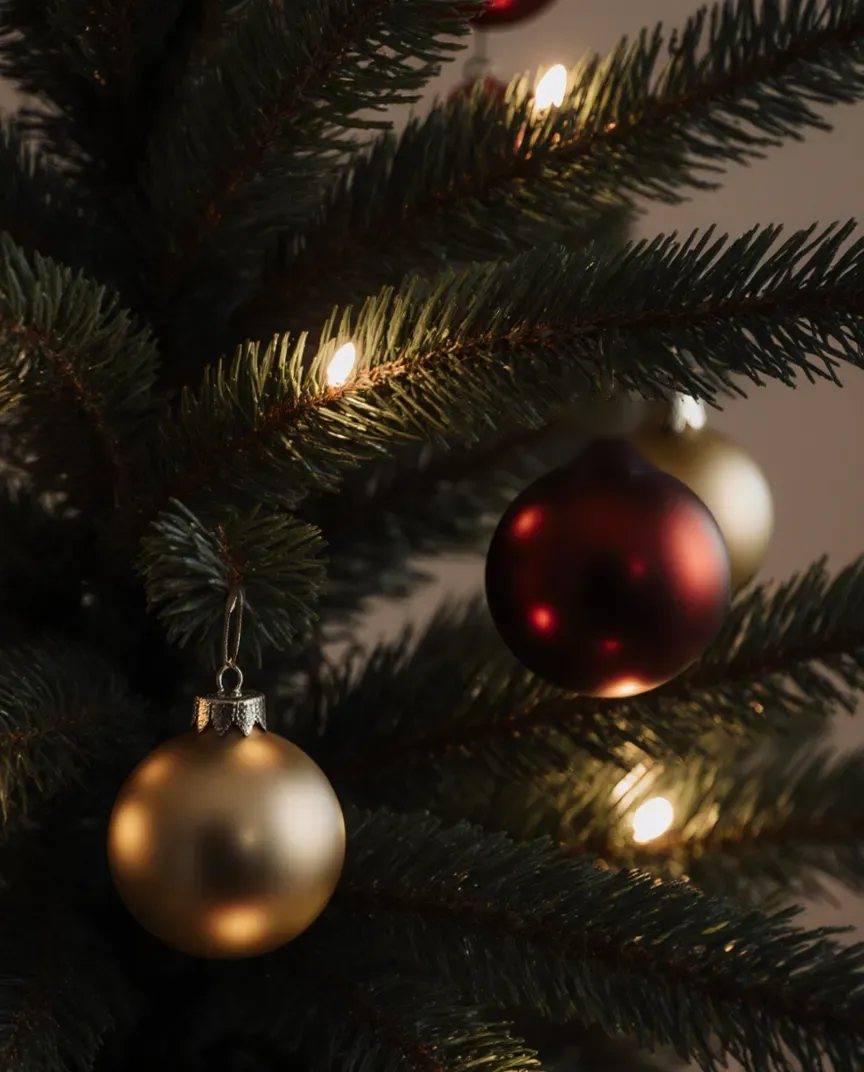
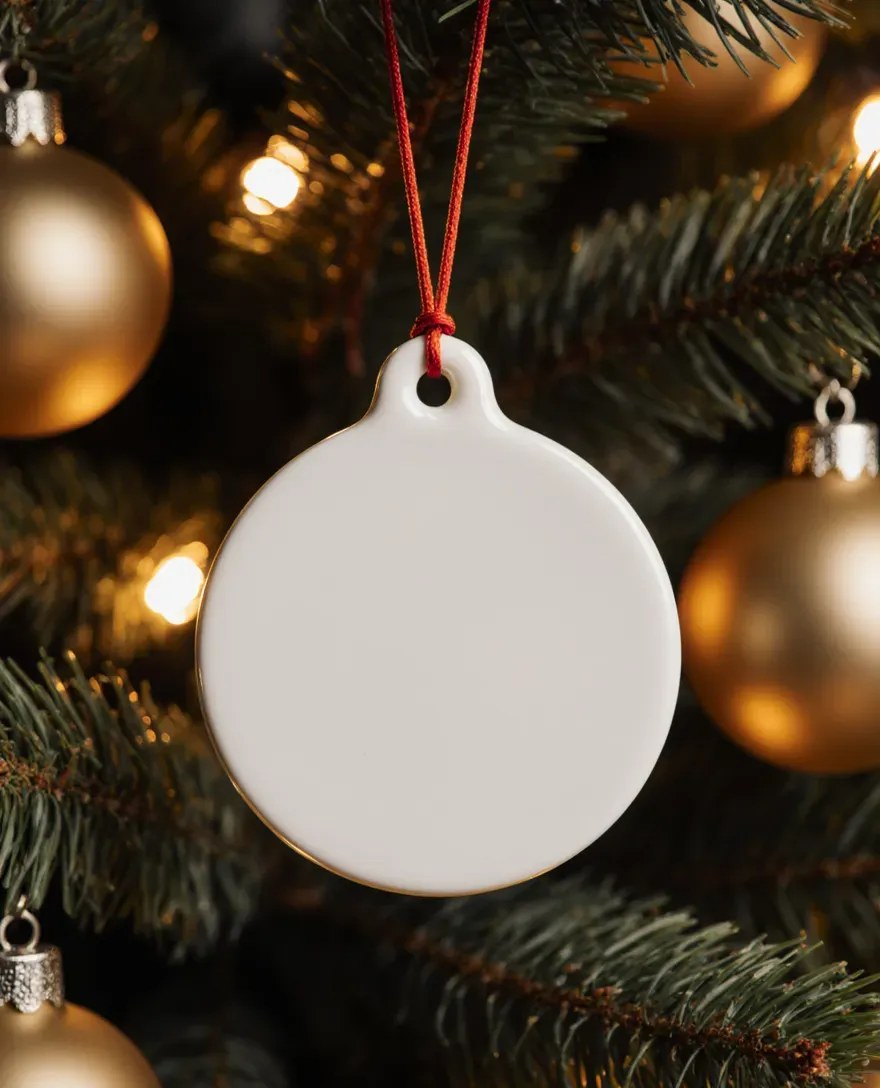
Bauble tree view: real-photo look - customer design multiplied onto a blank ceramic bauble photo
Claude-Session: https://claude.ai/code/session_012o9aG8XCDY6YZ4R9V2L3QY

diff --git a/docs/bauble-designer/index.html b/docs/bauble-designer/index.html
@@ -839,46 +839,16 @@ function renderControls() {
 }
 
 /* ---------- Christmas tree scene ---------- */
-const TREE_LOOK = {};  // the chosen look (Alex picks from 10 examples, 5 Nov)
-function treeScene(baubleSvg, o) {   // realistic tree photo, bauble life-size (7.5 cm), lit like the photo, kept SHARP
-  // Photo: AI-made for ZANS (FLUX.1 Krea), /img/bauble-tree-scene.jpg 864x1072 (the photo's own ball + cap removed under our bauble).
-  o = Object.assign({ gain: [.98, .95, .88], sat: 1, shade: .45, warm: .7, spec: .9, rot: -3, sx: .95, streak: 0, rim: .3, edge: 11, matte: 0 }, TREE_LOOK, o || {});   // Alex 5 Nov reference photos: bright true colours, thick cream edge, red cord
-  const cx = 608, cy = 570, r = 134, top = cy - r;
+function treeScene(baubleSvg) {   // Alex 5 Nov: must look like a real photo
+  // Photo: AI-made for ZANS (FLUX.1 Krea) of a BLANK white ceramic disc bauble on a tree, /img/bauble-tree-scene.jpg 880x1088.
+  // The customer's design is laid on the blank face with "multiply", so the photo's own light, shine and shadow show through it.
+  const cx = 439, cy = 652, r = 236;
   const inner = baubleSvg.replace(/^<svg[^>]*>/, '').replace(/<\/svg>$/, '').replace(/id="([^"]+)"/g, 'id="tr$1"').replace(/url\(#([^)]+)\)/g, 'url(#tr$1)');
-  const tilt = `translate(${cx},${cy}) rotate(${o.rot}) scale(${o.sx},1) translate(${-cx},${-cy})`;
-  const [gr, gg, gb] = o.gain;
-  return `<svg viewBox="230 214 634 792" xmlns="http://www.w3.org/2000/svg" xmlns:xlink="http://www.w3.org/1999/xlink" role="img" aria-label="Your bauble hanging on a real Christmas tree, shown life-size next to other decorations">
-  <defs>
-    <filter id="photo" color-interpolation-filters="sRGB"><feColorMatrix type="saturate" values="${o.sat}"/><feComponentTransfer><feFuncR type="linear" slope="${gr}"/><feFuncG type="linear" slope="${gg}"/><feFuncB type="linear" slope="${gb}"/></feComponentTransfer></filter>
-    <radialGradient id="shade" cx="30%" cy="22%" r="95%"><stop offset="0" stop-color="#FFF4DE" stop-opacity="0"/><stop offset=".5" stop-color="#2A1A0C" stop-opacity="${f1(.12 * o.shade * 100) / 100}"/><stop offset=".85" stop-color="#140C05" stop-opacity="${f1(.42 * o.shade * 100) / 100}"/><stop offset="1" stop-color="#0A0603" stop-opacity="${f1(.6 * o.shade * 100) / 100}"/></radialGradient>
-    <radialGradient id="warm" cx="28%" cy="20%" r="60%"><stop offset="0" stop-color="#FFD9A0" stop-opacity="${f1(.28 * o.warm * 100) / 100}"/><stop offset="1" stop-color="#FFD9A0" stop-opacity="0"/></radialGradient>
-    <radialGradient id="spec"><stop offset="0" stop-color="#FFF6E2" stop-opacity=".95"/><stop offset=".35" stop-color="#FFE7BC" stop-opacity=".55"/><stop offset="1" stop-color="#FFE7BC" stop-opacity="0"/></radialGradient>
-    <linearGradient id="streak" x1="0" y1="0" x2="1" y2="1"><stop offset=".28" stop-color="#fff" stop-opacity="0"/><stop offset=".38" stop-color="#fff" stop-opacity="${o.streak}"/><stop offset=".46" stop-color="#fff" stop-opacity="0"/></linearGradient>
-    <linearGradient id="rib" x1="0" x2="1"><stop offset="0" stop-color="#6E0B12"/><stop offset=".5" stop-color="#B21E27"/><stop offset="1" stop-color="#6E0B12"/></linearGradient>
-    <linearGradient id="edge" x1="0" x2="1"><stop offset="0" stop-color="#B9AF9C"/><stop offset=".55" stop-color="#F1EADB"/><stop offset=".85" stop-color="#E2D8C4"/><stop offset="1" stop-color="#9C927F"/></linearGradient>
-    <filter id="shadow" x="-40%" y="-40%" width="180%" height="180%"><feGaussianBlur stdDeviation="16"/></filter>
-    <clipPath id="disc"><circle cx="${cx}" cy="${cy}" r="${r}"/></clipPath>
-  </defs>
-  <image href="/img/bauble-tree-scene.jpg" x="0" y="0" width="864" height="1072" preserveAspectRatio="xMidYMid slice"/>
-  <g class="swing" style="transform-origin:605px 300px">
-    <path d="M600,300 C595,360 598,${top - 10} 603,${top + 16} M611,300 C616,360 613,${top - 10} 607,${top + 16}" fill="none" stroke="url(#rib)" stroke-width="5" stroke-linecap="round"/><path d="M600,300 q5,-9 11,0" fill="none" stroke="#8E1219" stroke-width="5" stroke-linecap="round"/><path d="M601,310 q4,4 9,0" fill="none" stroke="#C02A33" stroke-width="2.5" stroke-linecap="round" opacity=".8"/>
-    <ellipse cx="${cx + 26}" cy="${cy + 30}" rx="${r * 0.95}" ry="${r}" fill="#000" opacity=".5" filter="url(#shadow)"/>
-    <g transform="${tilt}">
-      ${o.edge ? `<circle cx="${cx + o.edge}" cy="${cy + 2}" r="${r}" fill="url(#edge)"/>` : ''}
-      <g clip-path="url(#disc)">
-        <g filter="url(#photo)"><g transform="translate(${cx - r},${cy - r}) scale(${f1(2 * r / 990 * 1000) / 1000})">${inner}</g></g>
-        <circle cx="${cx}" cy="${cy}" r="${r}" fill="url(#shade)"/>
-        <circle cx="${cx}" cy="${cy}" r="${r}" fill="url(#warm)"/>
-        ${o.matte ? '' : `<ellipse cx="${cx - 62}" cy="${cy - 78}" rx="16" ry="11" fill="url(#spec)" opacity="${o.spec}" transform="rotate(-30 ${cx - 62} ${cy - 78})"/>
-        <ellipse cx="${cx + 58}" cy="${cy - 92}" rx="7" ry="5" fill="url(#spec)" opacity="${f1(.7 * o.spec * 100) / 100}"/>
-        <ellipse cx="${cx - 96}" cy="${cy - 20}" rx="5" ry="9" fill="url(#spec)" opacity="${f1(.45 * o.spec * 100) / 100}"/>`}
-        ${o.streak ? `<rect x="${cx - r}" y="${cy - r}" width="${2 * r}" height="${2 * r}" fill="url(#streak)"/>` : ''}
-      </g>
-      <circle cx="${cx}" cy="${cy}" r="${r - 1.5}" fill="none" stroke="#F3ECDD" stroke-width="3.5"/><circle cx="${cx}" cy="${cy}" r="${r - 0.6}" fill="none" stroke="#FFE9C4" stroke-opacity="${o.rim}" stroke-width="1.4"/>
-      <circle cx="${cx}" cy="${top + 16}" r="7" fill="#1E1912" stroke="#F1EADB" stroke-width="2.5"/>
-    </g>
-    <path d="M600,${top + 12} q5,-9 10,0" fill="none" stroke="#9E1A22" stroke-width="5" stroke-linecap="round"/><circle cx="605" cy="${top + 3}" r="4.5" fill="#8E1219"/>
-  </g></svg>`;
+  return `<svg viewBox="0 0 880 1088" xmlns="http://www.w3.org/2000/svg" xmlns:xlink="http://www.w3.org/1999/xlink" role="img" aria-label="Your bauble hanging on a Christmas tree">
+  <defs><clipPath id="face"><circle cx="${cx}" cy="${cy}" r="${r}"/></clipPath></defs>
+  <image href="/img/bauble-tree-scene.jpg" x="0" y="0" width="880" height="1088"/>
+  <g clip-path="url(#face)" style="mix-blend-mode:multiply"><g transform="translate(${cx - r},${cy - r}) scale(${Math.round(2 * r / 990 * 10000) / 10000})">${inner}</g></g>
+  </svg>`;
 }
 
 /* ---------- render ---------- */

diff --git a/tools/bauble-designer/bauble.js b/tools/bauble-designer/bauble.js
@@ -95,46 +95,16 @@ function renderControls() {
 }
 
 /* ---------- Christmas tree scene ---------- */
-const TREE_LOOK = {};  // the chosen look (Alex picks from 10 examples, 5 Nov)
-function treeScene(baubleSvg, o) {   // realistic tree photo, bauble life-size (7.5 cm), lit like the photo, kept SHARP
-  // Photo: AI-made for ZANS (FLUX.1 Krea), /img/bauble-tree-scene.jpg 864x1072 (the photo's own ball + cap removed under our bauble).
-  o = Object.assign({ gain: [.98, .95, .88], sat: 1, shade: .45, warm: .7, spec: .9, rot: -3, sx: .95, streak: 0, rim: .3, edge: 11, matte: 0 }, TREE_LOOK, o || {});   // Alex 5 Nov reference photos: bright true colours, thick cream edge, red cord
-  const cx = 608, cy = 570, r = 134, top = cy - r;
+function treeScene(baubleSvg) {   // Alex 5 Nov: must look like a real photo
+  // Photo: AI-made for ZANS (FLUX.1 Krea) of a BLANK white ceramic disc bauble on a tree, /img/bauble-tree-scene.jpg 880x1088.
+  // The customer's design is laid on the blank face with "multiply", so the photo's own light, shine and shadow show through it.
+  const cx = 439, cy = 652, r = 236;
   const inner = baubleSvg.replace(/^<svg[^>]*>/, '').replace(/<\/svg>$/, '').replace(/id="([^"]+)"/g, 'id="tr$1"').replace(/url\(#([^)]+)\)/g, 'url(#tr$1)');
-  const tilt = `translate(${cx},${cy}) rotate(${o.rot}) scale(${o.sx},1) translate(${-cx},${-cy})`;
-  const [gr, gg, gb] = o.gain;
-  return `<svg viewBox="230 214 634 792" xmlns="http://www.w3.org/2000/svg" xmlns:xlink="http://www.w3.org/1999/xlink" role="img" aria-label="Your bauble hanging on a real Christmas tree, shown life-size next to other decorations">
-  <defs>
-    <filter id="photo" color-interpolation-filters="sRGB"><feColorMatrix type="saturate" values="${o.sat}"/><feComponentTransfer><feFuncR type="linear" slope="${gr}"/><feFuncG type="linear" slope="${gg}"/><feFuncB type="linear" slope="${gb}"/></feComponentTransfer></filter>
-    <radialGradient id="shade" cx="30%" cy="22%" r="95%"><stop offset="0" stop-color="#FFF4DE" stop-opacity="0"/><stop offset=".5" stop-color="#2A1A0C" stop-opacity="${f1(.12 * o.shade * 100) / 100}"/><stop offset=".85" stop-color="#140C05" stop-opacity="${f1(.42 * o.shade * 100) / 100}"/><stop offset="1" stop-color="#0A0603" stop-opacity="${f1(.6 * o.shade * 100) / 100}"/></radialGradient>
-    <radialGradient id="warm" cx="28%" cy="20%" r="60%"><stop offset="0" stop-color="#FFD9A0" stop-opacity="${f1(.28 * o.warm * 100) / 100}"/><stop offset="1" stop-color="#FFD9A0" stop-opacity="0"/></radialGradient>
-    <radialGradient id="spec"><stop offset="0" stop-color="#FFF6E2" stop-opacity=".95"/><stop offset=".35" stop-color="#FFE7BC" stop-opacity=".55"/><stop offset="1" stop-color="#FFE7BC" stop-opacity="0"/></radialGradient>
-    <linearGradient id="streak" x1="0" y1="0" x2="1" y2="1"><stop offset=".28" stop-color="#fff" stop-opacity="0"/><stop offset=".38" stop-color="#fff" stop-opacity="${o.streak}"/><stop offset=".46" stop-color="#fff" stop-opacity="0"/></linearGradient>
-    <linearGradient id="rib" x1="0" x2="1"><stop offset="0" stop-color="#6E0B12"/><stop offset=".5" stop-color="#B21E27"/><stop offset="1" stop-color="#6E0B12"/></linearGradient>
-    <linearGradient id="edge" x1="0" x2="1"><stop offset="0" stop-color="#B9AF9C"/><stop offset=".55" stop-color="#F1EADB"/><stop offset=".85" stop-color="#E2D8C4"/><stop offset="1" stop-color="#9C927F"/></linearGradient>
-    <filter id="shadow" x="-40%" y="-40%" width="180%" height="180%"><feGaussianBlur stdDeviation="16"/></filter>
-    <clipPath id="disc"><circle cx="${cx}" cy="${cy}" r="${r}"/></clipPath>
-  </defs>
-  <image href="/img/bauble-tree-scene.jpg" x="0" y="0" width="864" height="1072" preserveAspectRatio="xMidYMid slice"/>
-  <g class="swing" style="transform-origin:605px 300px">
-    <path d="M600,300 C595,360 598,${top - 10} 603,${top + 16} M611,300 C616,360 613,${top - 10} 607,${top + 16}" fill="none" stroke="url(#rib)" stroke-width="5" stroke-linecap="round"/><path d="M600,300 q5,-9 11,0" fill="none" stroke="#8E1219" stroke-width="5" stroke-linecap="round"/><path d="M601,310 q4,4 9,0" fill="none" stroke="#C02A33" stroke-width="2.5" stroke-linecap="round" opacity=".8"/>
-    <ellipse cx="${cx + 26}" cy="${cy + 30}" rx="${r * 0.95}" ry="${r}" fill="#000" opacity=".5" filter="url(#shadow)"/>
-    <g transform="${tilt}">
-      ${o.edge ? `<circle cx="${cx + o.edge}" cy="${cy + 2}" r="${r}" fill="url(#edge)"/>` : ''}
-      <g clip-path="url(#disc)">
-        <g filter="url(#photo)"><g transform="translate(${cx - r},${cy - r}) scale(${f1(2 * r / 990 * 1000) / 1000})">${inner}</g></g>
-        <circle cx="${cx}" cy="${cy}" r="${r}" fill="url(#shade)"/>
-        <circle cx="${cx}" cy="${cy}" r="${r}" fill="url(#warm)"/>
-        ${o.matte ? '' : `<ellipse cx="${cx - 62}" cy="${cy - 78}" rx="16" ry="11" fill="url(#spec)" opacity="${o.spec}" transform="rotate(-30 ${cx - 62} ${cy - 78})"/>
-        <ellipse cx="${cx + 58}" cy="${cy - 92}" rx="7" ry="5" fill="url(#spec)" opacity="${f1(.7 * o.spec * 100) / 100}"/>
-        <ellipse cx="${cx - 96}" cy="${cy - 20}" rx="5" ry="9" fill="url(#spec)" opacity="${f1(.45 * o.spec * 100) / 100}"/>`}
-        ${o.streak ? `<rect x="${cx - r}" y="${cy - r}" width="${2 * r}" height="${2 * r}" fill="url(#streak)"/>` : ''}
-      </g>
-      <circle cx="${cx}" cy="${cy}" r="${r - 1.5}" fill="none" stroke="#F3ECDD" stroke-width="3.5"/><circle cx="${cx}" cy="${cy}" r="${r - 0.6}" fill="none" stroke="#FFE9C4" stroke-opacity="${o.rim}" stroke-width="1.4"/>
-      <circle cx="${cx}" cy="${top + 16}" r="7" fill="#1E1912" stroke="#F1EADB" stroke-width="2.5"/>
-    </g>
-    <path d="M600,${top + 12} q5,-9 10,0" fill="none" stroke="#9E1A22" stroke-width="5" stroke-linecap="round"/><circle cx="605" cy="${top + 3}" r="4.5" fill="#8E1219"/>
-  </g></svg>`;
+  return `<svg viewBox="0 0 880 1088" xmlns="http://www.w3.org/2000/svg" xmlns:xlink="http://www.w3.org/1999/xlink" role="img" aria-label="Your bauble hanging on a Christmas tree">
+  <defs><clipPath id="face"><circle cx="${cx}" cy="${cy}" r="${r}"/></clipPath></defs>
+  <image href="/img/bauble-tree-scene.jpg" x="0" y="0" width="880" height="1088"/>
+  <g clip-path="url(#face)" style="mix-blend-mode:multiply"><g transform="translate(${cx - r},${cy - r}) scale(${Math.round(2 * r / 990 * 10000) / 10000})">${inner}</g></g>
+  </svg>`;
 }
 
 /* ---------- render ---------- */
